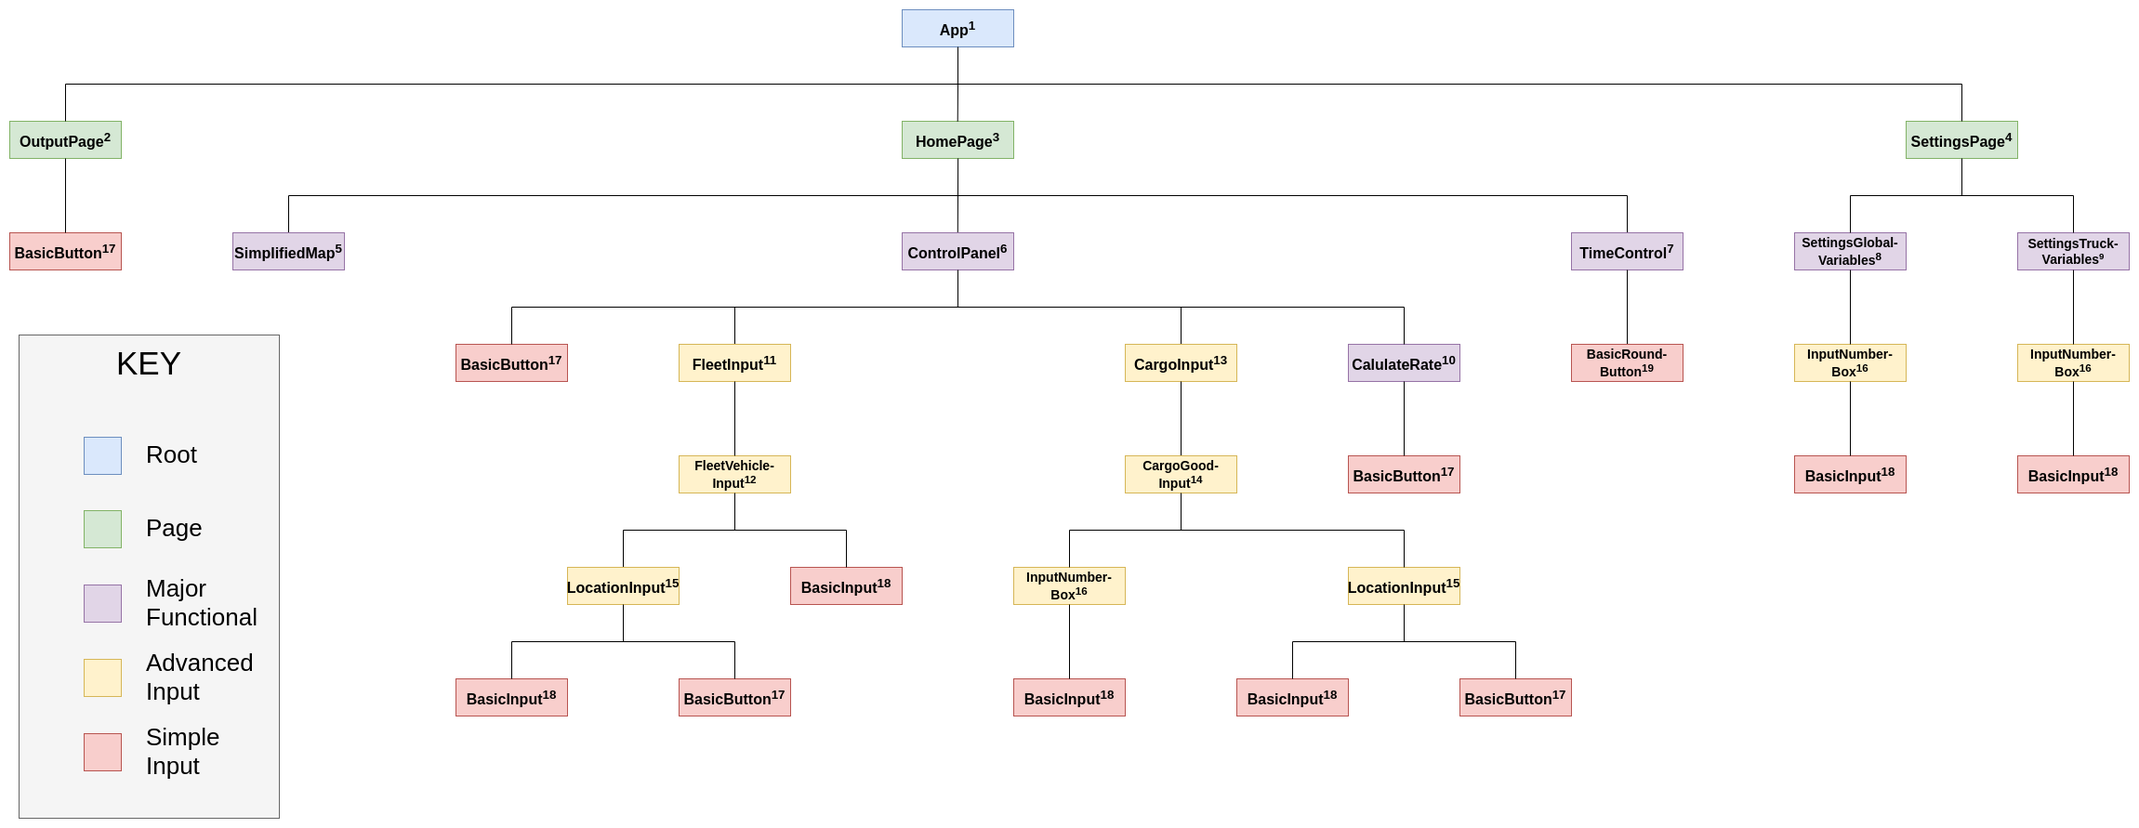
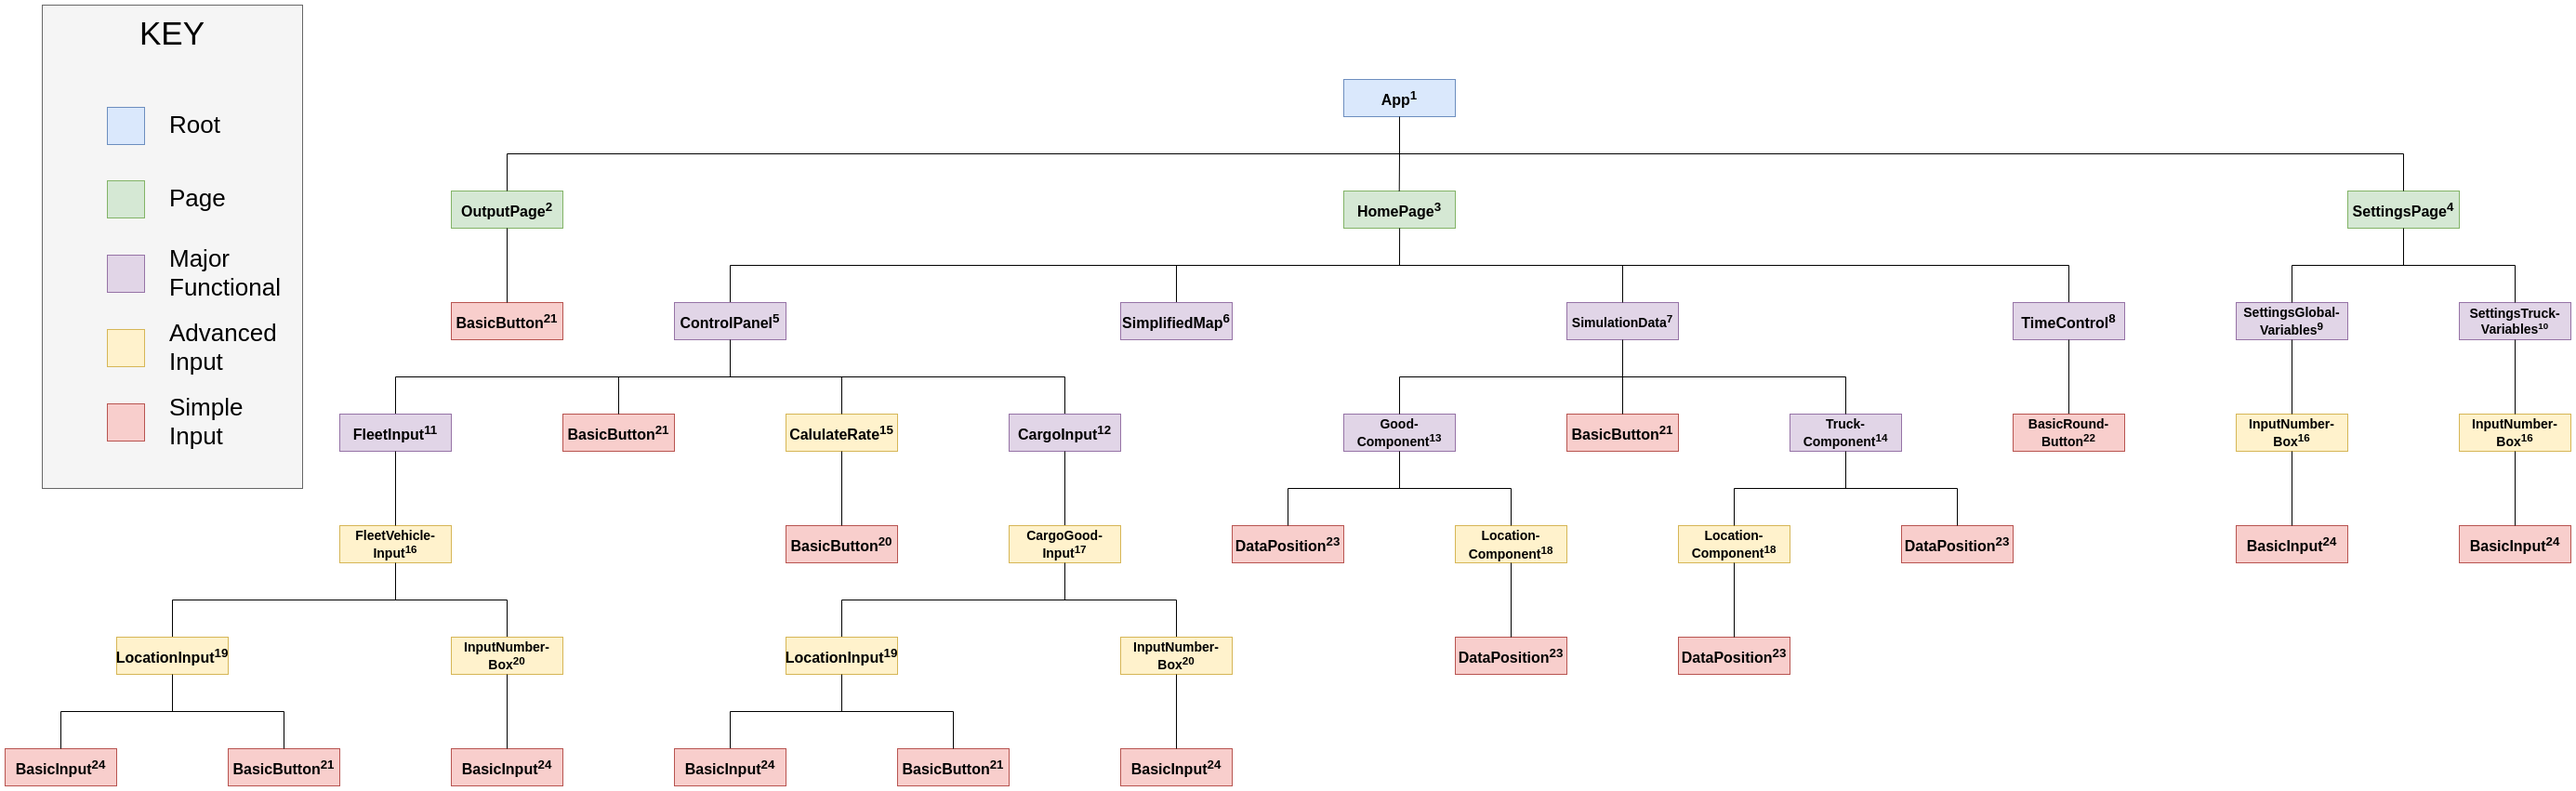
updated architecture

diff --git a/documentation/architecture.md b/documentation/architecture.md
@@ -90,42 +90,58 @@ For our project, the following Vue components compose the view:
   It contains a SimplifiedMap to show the simulation, a ControlPanel to change the parameters, and a TimeControl to change the time during the running of the simulation.
   4. SettingsPage allows the user to change specific settings in the simulation.
   It contains SettingsGlobalVariable to set settings for the global variables, and SettingsTruckVariables set of settings of variables for each truck.
-  5. SimplifiedMap is the component to show a map to the user.
-  It doesn't contain any other components.
-  6. ControlPanel allows the user change parameters in the simulation.
+  5. ControlPanel allows the user change parameters in the simulation.
   It contains a BasicButton to go to the SettingsPage, a FleetInput to change the trucks, a CargoInput to change the goods, and a CalculateRate component to start the simulation.
-  7. TimeControl is the component allowing the user to change the passage of time while the simulation is running.
+  6. SimplifiedMap is the component to show a map to the user.
+  It doesn't contain any other components.
+  7. SimulationData is the component displaying real-time data as the simulation is running to the user.
+  It contains a BasicButton to get user input on when to end the simulation, as well as GoodComponent and TruckComponent to display data about goods and trucks.
+  8. TimeControl is the component allowing the user to change the passage of time while the simulation is running.
   It contains multiple BasicRoundButtons to get user input on controls.
-  8. SettingsGlobalVariables is the component allowing the user to change globals variables.
+  9. SettingsGlobalVariables is the component allowing the user to change globals variables.
   It contains multiple InputNumberBox to model the variables in the webapp.
-  9. SettingsTruckVariables is a component allowing the user to change variables for a certain truck type. 
+  10. SettingsTruckVariables is a component allowing the user to change variables for a certain truck type. 
   It contains multiple InputNumberBox to model the variables in the webapp. 
-  10. CalculateRate is the component allowing the user to start the simulation with Sharing enabled or disabled.
-  It contains two BasicButtons to get user input on controls.
   11. FleetInput is the component allowing the user to change the parameters of all trucks in the simulation.
   It contains multiple FleetVehicleInput for each truck in the simulation.
-  12. FleetVehicleInput is a component allowing the user to change parameters of a certain truck entry.
-  It contains LocationInput for the starting location of the truck as well as BasicInput for the number of truck in this entry.
-  13. CargoInput is the component allowing the user to change the parameters of all goods in the simulation.
+  12. CargoInput is the component allowing the user to change the parameters of all goods in the simulation.
   It contains multiple CargoGoodInput for each good in the simulation.
-  14. CargoGoodInput is a component allowing the user to change parameters of a certain good entry.
+  13. GoodComponent is the component responsible for displaying real-time data about goods as the simulation is running.
+  It contains multiple LocationComponent to display data about locations, and a single DataPosition to know when to display additional data.
+  14. TruckComponent is the component responsible for displaying real-time data about trucks as the simulation is running.
+  It contains multiple LocationComponent to display data about locations, and a single DataPosition to know when to display additional data. 
+  15. CalculateRate is the component allowing the user to start the simulation with Sharing enabled or disabled.
+  It contains two BasicButtons to get user input on controls.
+  16. FleetVehicleInput is a component allowing the user to change parameters of a certain truck entry.
+  It contains LocationInput for the starting location of the truck as well as BasicInput for the number of truck in this entry.
+  17. CargoGoodInput is a component allowing the user to change parameters of a certain good entry.
   It contains LocationInput for pickup and delivery location of the good as well as BasicInput for the InputNumberBox parameters of the good entry.
-  15. LocationInput allows the user to input a location.
+  18. LocationComponent is a component responsible for displaying real-time data about a particular location. 
+  It contains a single DataPosition to know when to display the additional data. 
+  19. LocationInput allows the user to input a location.
   It contains BasicInput to allow the user to type the location as well as BasicButton to allow the user to select a location through the map.
-  16. InputNumberBox is the component handling number input for the user. 
+  20. InputNumberBox is the component handling number input for the user. 
   It contains a BasicInput to get user input.
-  17. BasicButton gets basic input from the user through a square shaped button.
+  21. BasicButton gets basic input from the user through a square shaped button.
   It is a basic component and thus contains no other components.
-  18. BasicInput gets basic input from the user through a text field.
-  It is a basic component and thus contains no other components.
-  19. BasicRoundButton get basic input from the user through a circle shaped button.
+  22. BasicRoundButton get basic input from the user through a circle shaped button.
   It is a basic component and thus contains no other component.
+  23. DataPosition get basic input from the user through a button, it determines whether data should be collapsed or not.
+  It is a basic component and thus contains no other component.
+  24. BasicInput gets basic input from the user through a text field.
+  It is a basic component and thus contains no other components.
+
+During the first block of development of the web-app, the ControlPanel over coupled compared to the of rest the component hierarchy . 
+However after we inevitably added more components we made an effort to keep components balanced.   
 
 The exact file structure and explanations of what the responsibility of each file is, can be found below.
 ````
 ├── public
 │   ├── assets
-│   │   ├── credits
+│   │   ├── credits                     # link to site where diagrams where taken
+│   │   ├── good_drop.svg               # diagram of a delivery location of a good
+│   │   ├── good_pickup.svg             # diagram of a pickup location of a good
+│   │   ├── goods.svg                   # diagram of a good used int he webapp
 │   │   ├── heavy_duty_van.svg          # diagram of heavy duty van used in the webapp
 │   │   ├── light_duty_van.svg          # diagram of light duty van used in the webapp
 │   │   └── train_truck.svg             # diagram of train truck used in the webapp
@@ -135,45 +151,51 @@ The exact file structure and explanations of what the responsibility of each fil
     ├── main.js                         # renders and mounts the app
     ├── App.vue                         # the root of the app
     ├── classes                         # folder containing all classes use in the simulation
-    │   ├── FreightPlatform.js          # The class that distributes the goods among the trucks
     │   ├── goods
-    │   │   ├── Good.js                 # The class representing a good in the simulation
-    │   │   └── GoodView.js             # The class responsible for drawing the good on the map.
-    │   ├── Observable.js               # A class that other objects can observe. 
+    │   │   └── Good.js                 # The class representing a good in the simulation
     │   ├── Router.js                   # The class used for routing trucks.
-    │   ├── Simulation.js               # The class containing the simulation.
-    │   ├── SimulationType.js           # The class defining the different simulation types.
+    │   ├── simulation
+    │   │   ├── FreightPlatform.js      # The class that distributes the goods among the trucks
+    │   │   ├── Simulation.js           # The class containing the simulation.
+    │   │   ├── SimulationType.js       # The class defining the different simulation types.
+    │   │   └── TruckTracker.js         # This class keeps track of which trucks are done with there delivering all goods.
     │   ├── Time.js                     # The class responsible for the passage of time during the simulation.
     │   ├── trucks
+    │   │   ├── CostHandler.js          # This class handles finding the cost of adding a new order to a truck.
+    │   │   ├── PlanManager.js          # This class handles the orders of a truck in a simulation.
     │   │   ├── SharedTruck.js          # The class containing the logic for how a truck operates in a sharing logistics simulation.
     │   │   ├── TraditionalTruck.js     # The class containing the logic for how a truck operates in a traditional simulation.
     │   │   ├── Truck.js                # The class representing a truck in the simulation.
-    │   │   └── TruckView.js            # The class responsible for drawing the truck on the map.
-    │   ├── TruckTracker.js             # This class keeps track of which trucks are done with there delivering all goods.
-    │   └── unusedClasses               # This is a directory contains classes that aren't used anymore.
-    │       ├── SharedRouter.js
-    │       └── TraditionalRouter.js
+    │   │   ├── TruckPropertyHandler.js # This class stores the properties of a truck in the simulation.
+    │   │   └── TruckState.js           # This class represents the different states of a truck. 
+    │   ├── util
+    │   │   ├── Observable.js           # A class that other objects can observe.
+    │   │   └── UpdateMessage.js        # This class represents the different updates messages that can be sent.
+    │   └── view
+    │       ├── GoodView.js             # The class responsible for drawing the good on the map.
+    │       └── TruckView.js            # The class responsible for drawing the truck on the map.
     ├── components
+    │   ├── BasicButton.vue             # base input for a square button with text in it
+    │   ├── BasicInput.vue              # base input for a text box
+    │   ├── BasicRoundButton.vue        # base input for a round button
     │   ├── CalculateRate.vue           # input button to run the simulation
     │   ├── CargoGoodInput.vue          # input component for a single good
     │   ├── CargoInput.vue              # input component for all the goods
     │   ├── ControlPanel.vue            # the panel on the left of the screen that handles the input
-    │   ├── FleetInput.vue              # input component for all vehicle types 
+    │   ├── FleetInput.vue              # input component for all vehicle types
     │   ├── FleetVehicleInput.vue       # input component for 1 vehicle type
-    │   ├── InputLocation.vue           # base input component for locations
     │   ├── InputNumberBox.vue          # base input component for numbers
-    │   ├── RoundButton.vue             # base input for a round button
+    │   ├── LocationInput.vue           # base input component for locations
     │   ├── SettingsGlobalVariables.vue # input for changing a global variable for the simulation
     │   ├── SettingsTruckVariables.vue  # input for changing a variable of a certain truck type
     │   ├── SimplifiedMap.vue           # displays the map and its components
-    │   ├── TimeControl.vue             # displays the time of the simulation
-    │   └── unusedComponents            # components that are no longer used
-    │       ├── DateInput.vue
-    │       ├── JourneyInput.vue
-    │       ├── Map.vue
-    │       ├── SelectorCheckBox.vue
-    │       ├── VehicleSelectorEntry.vue
-    │       └── VehicleSelector.vue
+    │   ├── simulationData
+    │   │   ├── DataPosition.vue        # gets input from the user whether or not a container should be collapsed or not
+    │   │   ├── GoodComponent.vue       # displays data related to goods while the simulation is running
+    │   │   ├── LocationComponent.vue   # displays data related to locations while the simulation is running
+    │   │   ├── SimulationData.vue      # displays data while the simulation is running
+    │   │   └── TruckComponent.vue      # displays data related to trucks while the simulation is running
+    │   └── TimeControl.vue             # displays the time of the simulation
     ├── router
     │   └── index.js                    # contains the references to the pages of the application
     ├── store
@@ -182,14 +204,13 @@ The exact file structure and explanations of what the responsibility of each fil
     │   ├── index.js                    # stores information that multiple parts of the application need access to
     │   └── mutations.js                # changes the information of the applications
     ├── util
-    │   ├── EuclidDist.js               # A utility function to distance between two coordinates on a flat plane.
-    │   └── haversine.js                # A utility function to calculated the real distance between two coordinates.
+    │   ├── avg.js                      # a utility function to get the average value of a list of values
+    │   ├── EuclidDist.js               # a utility function to distance between two coordinates on a flat plane.
+    │   └── haversine.js                # a utility function to calculated the real distance between two coordinates.
     └── views
         ├── HomePage.vue                # contains the input panel and the map
         ├── OutputPage.vue              # displays the simulated results
-        ├── SettingsPage.vue            # contains constants that can be changed
-        ├── SharingPage.vue
-        └── TraditionalPage.vue
+        └── SettingsPage.vue            # contains constants that can be changed
 ````
 
 Note that each element of the view can access the application's store.
@@ -301,4 +322,5 @@ The division during the second block was more nuanced. Check Trello for more det
 | Gheorghe | 20-04-2020 | Updated the introduction and the application architecture
 | Antonin  | 26-04-2020 | Updated the file structure and application architecture
 | Gheorghe | 04-05-2020 | Updated the introduction
-| Antonin  | 26-05-2020 | Updated the file structure and hierarchy diagram.
+| Antonin  | 26-05-2020 | Updated the file structure and hierarchy diagram
+| Antonin  | 12-06-2020 | Updated the file structure and hierarchy diagram
